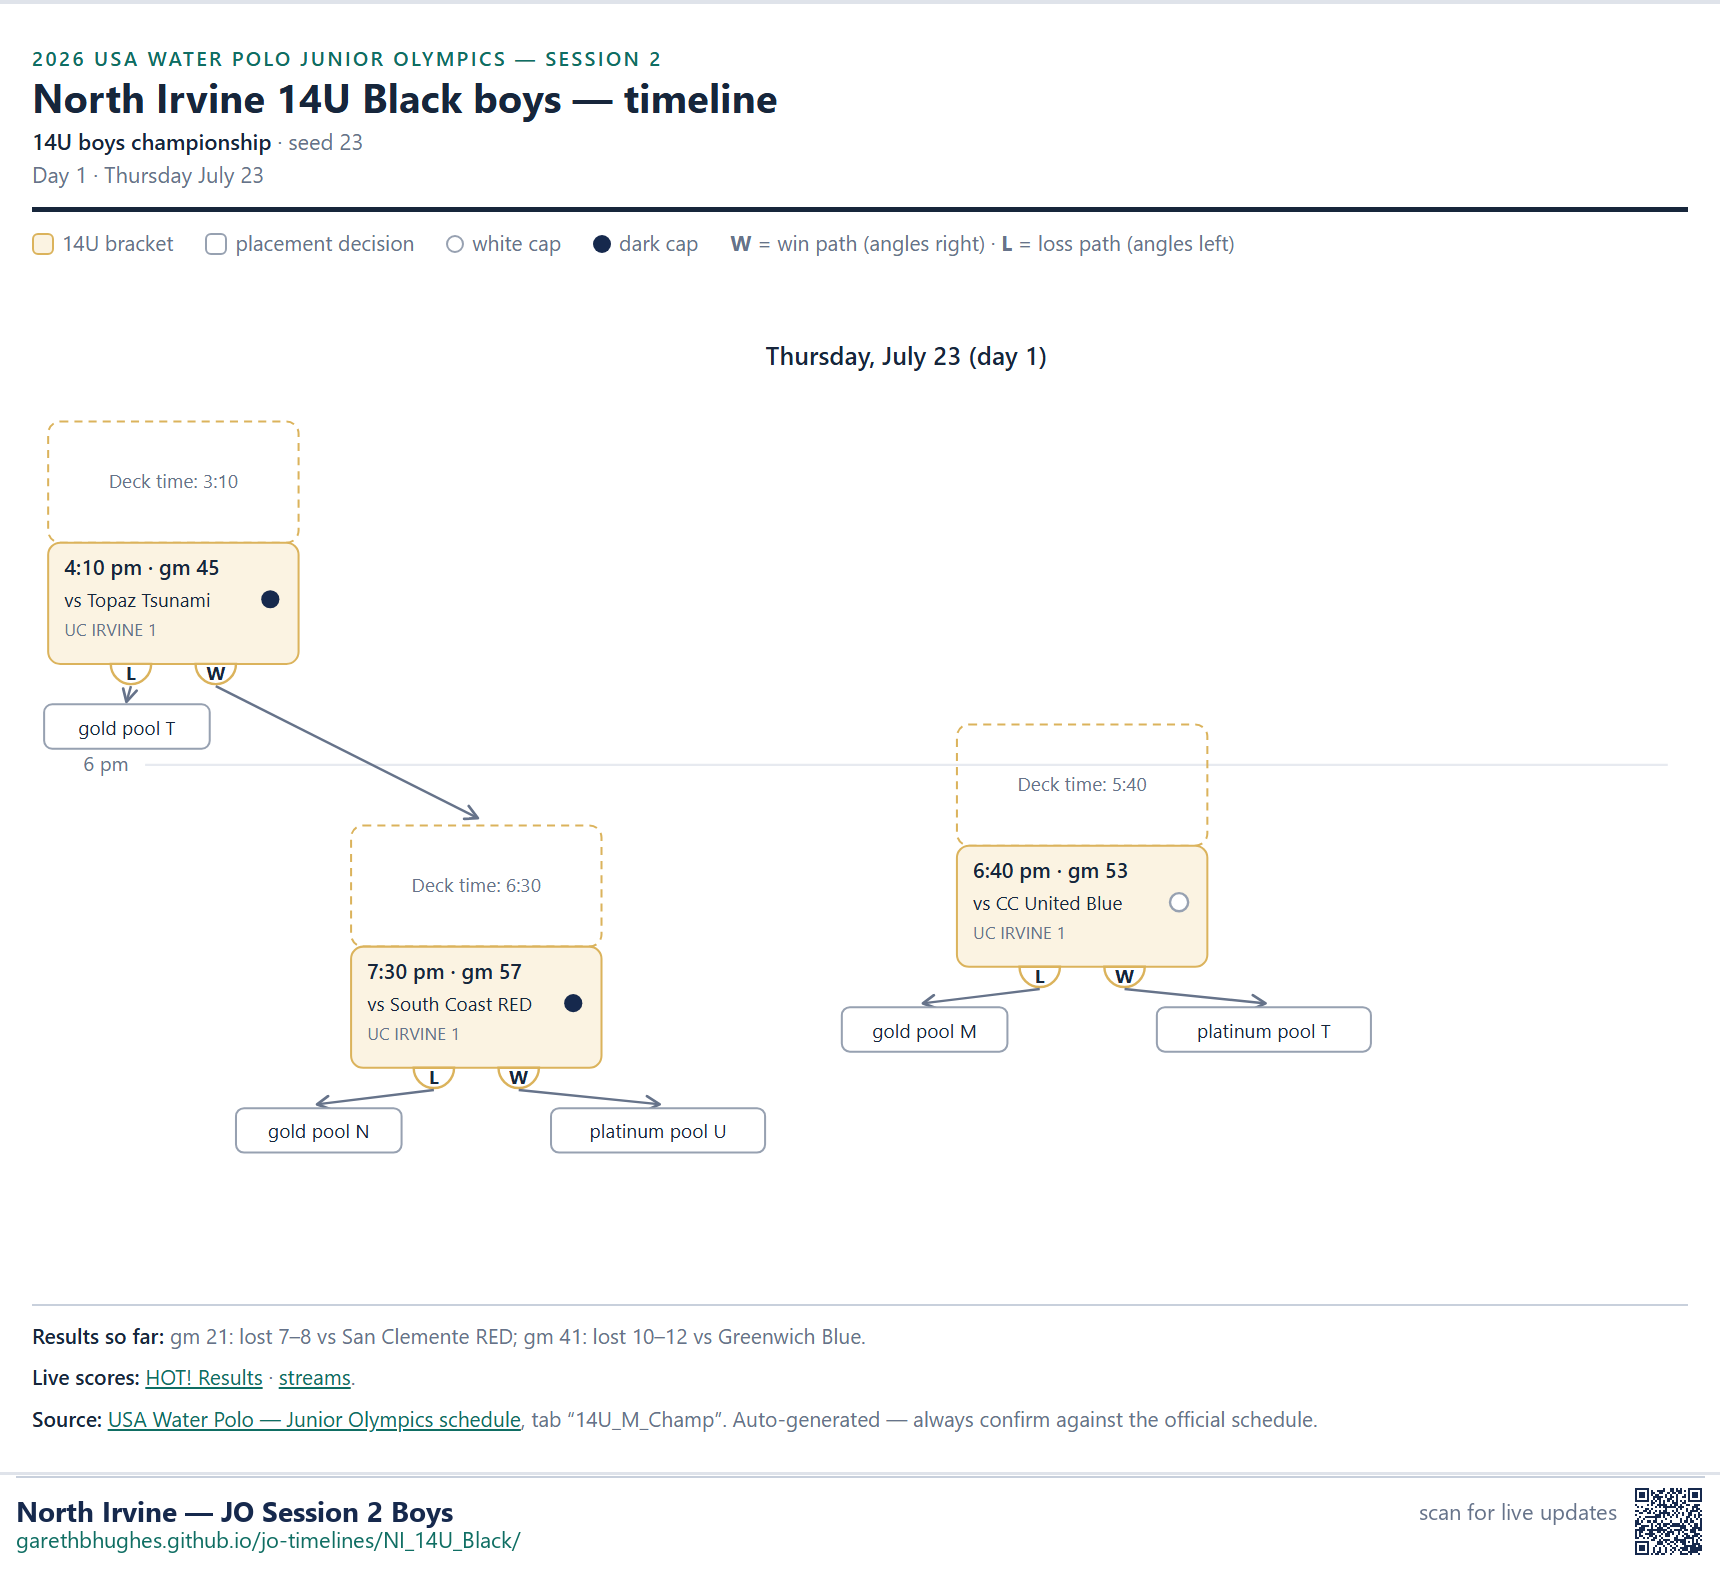
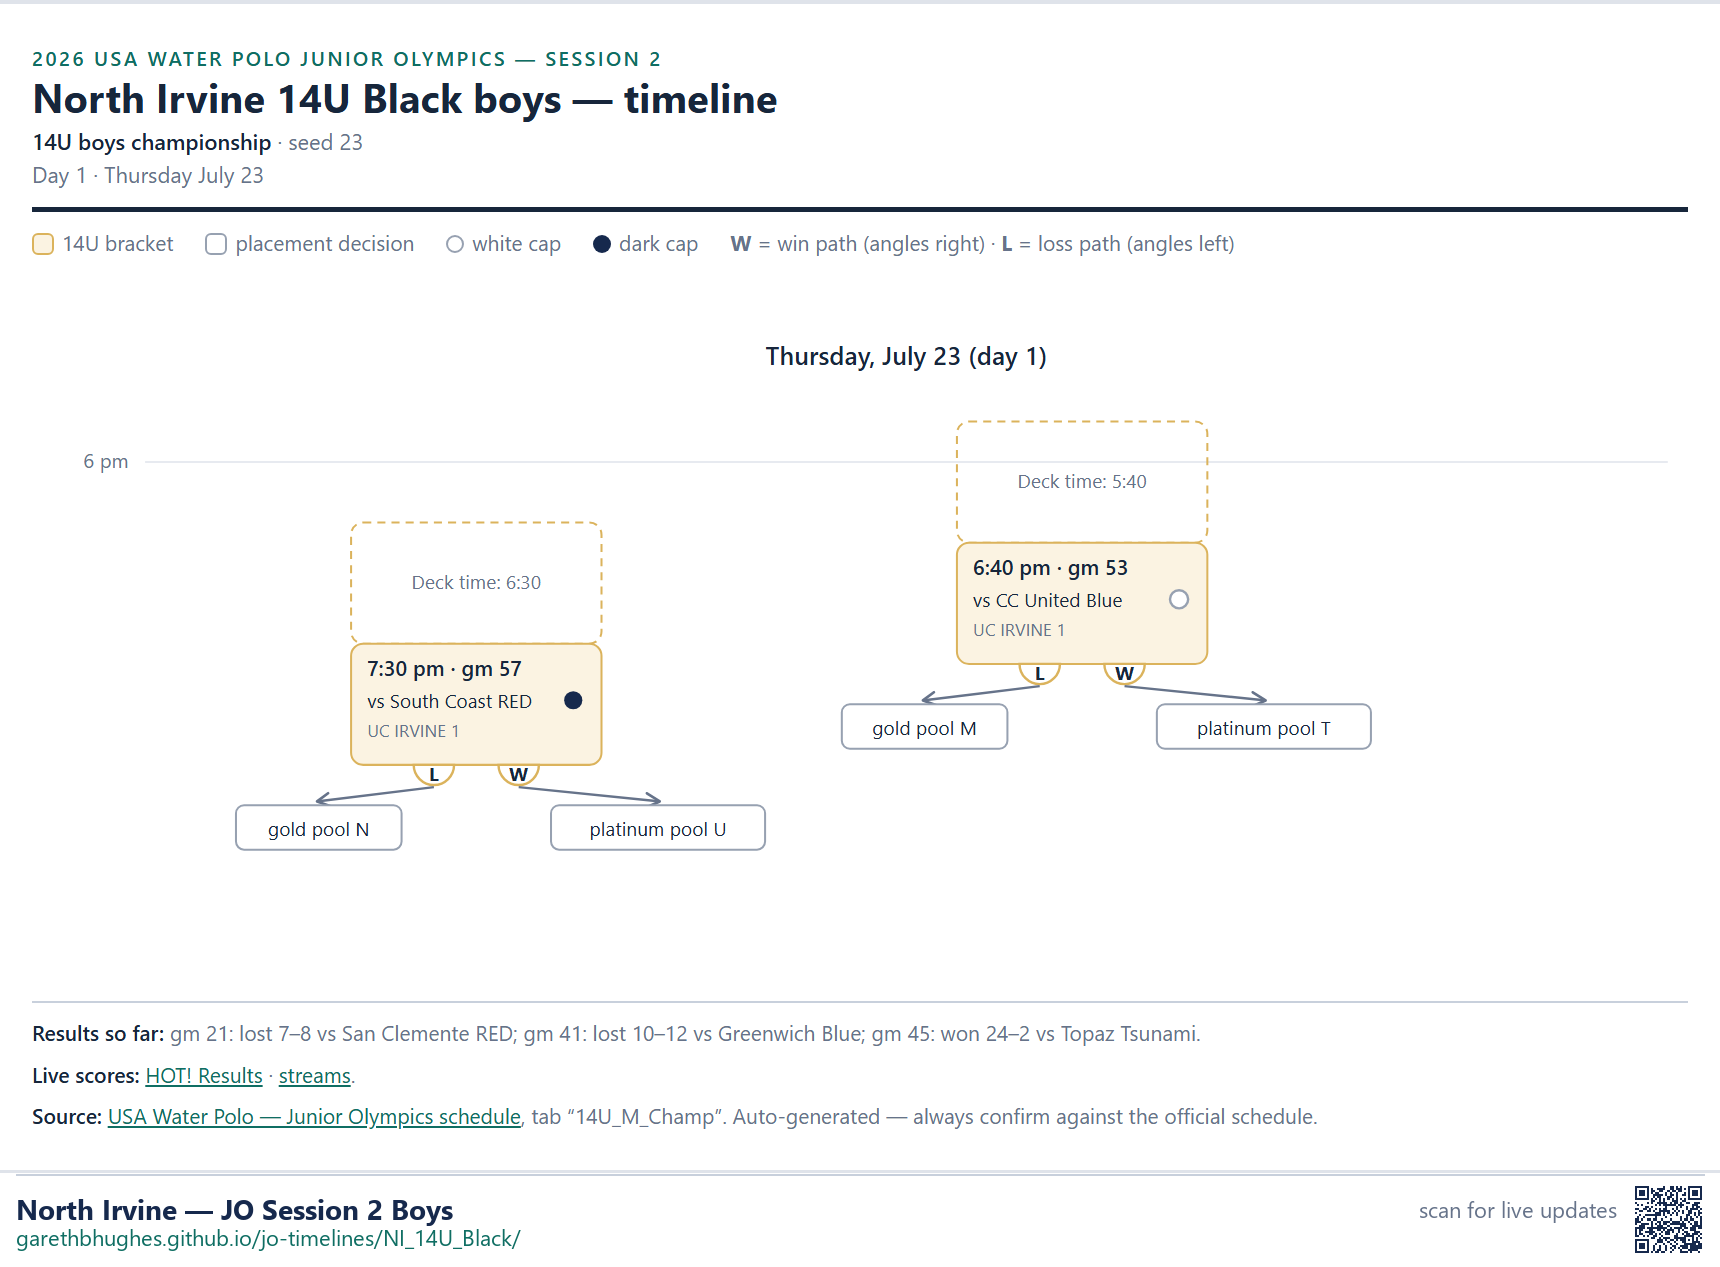
refresh 2026-07-23T18:45

diff --git a/NI_14U_Black/index.html b/NI_14U_Black/index.html
@@ -40,11 +40,11 @@ h2 { font-size:14px; text-transform:uppercase; letter-spacing:.06em; color:var(-
 <header class="site" style="margin-top:8px"><p class="eyebrow">2026 USA Water Polo Junior Olympics — Session 2</p>
 <h1>North Irvine 14U Black boys</h1>
 <p class="stamp"><b>14U boys championship</b> · seed 23<br>
-Last verified against the master schedule at Thursday July 23, 6:30 PM</p></header>
+Last verified against the master schedule at Thursday July 23, 6:45 PM</p></header>
 
 <img class="tl" src="portrait.png" alt="Upcoming games timeline for North Irvine 14U Black boys">
 <h2>Wide view</h2>
 <div class="scroll"><img src="landscape.png" alt="Landscape timeline"></div>
-<h2>Change log</h2><ul class="log"><li><time>5:25 PM</time>Game 21 result in: lost 7–8 (vs San Clemente RED).</li><li><time>5:25 PM</time>Game 41 result in: lost 10–12 (vs Greenwich Blue).</li><li><time>5:25 PM</time>Game 45 set: vs Topaz Tsunami, 4:10 pm at UC IRVINE 1.</li><li><time>5:25 PM</time>Game 53 set: vs CC United Blue, 6:40 pm at UC IRVINE 1.</li><li><time>5:25 PM</time>Game 57 set: vs South Coast RED, 7:30 pm at UC IRVINE 1.</li></ul>
-<div class="fineprint"><p><b>Results so far:</b> gm 21: lost 7–8 vs San Clemente RED; gm 41: lost 10–12 vs Greenwich Blue.</p><p><b>Live scores:</b> <a href="https://kahunaevents.org">HOT! Results</a> · <a href="https://gols.co/2026-usawp-junior-olympics-session-2/">streams</a>.</p><p><b>Source:</b> <a href="https://usawaterpolo.org/sports/2018/12/19/junior-olympics.aspx#schedule">USA Water Polo — Junior Olympics schedule</a>, tab “14U_M_Champ”. Auto-generated — always confirm against the official schedule.</p></div>
+<h2>Change log</h2><ul class="log"><li><time>6:45 PM</time>Game 45 result in: won 24–2 (vs Topaz Tsunami).</li><li><time>6:45 PM</time>Game 57 set: vs South Coast RED, 7:30 pm at UC IRVINE 1.</li><li><time>5:25 PM</time>Game 21 result in: lost 7–8 (vs San Clemente RED).</li><li><time>5:25 PM</time>Game 41 result in: lost 10–12 (vs Greenwich Blue).</li><li><time>5:25 PM</time>Game 45 set: vs Topaz Tsunami, 4:10 pm at UC IRVINE 1.</li><li><time>5:25 PM</time>Game 53 set: vs CC United Blue, 6:40 pm at UC IRVINE 1.</li><li><time>5:25 PM</time>Game 57 set: vs South Coast RED, 7:30 pm at UC IRVINE 1.</li></ul>
+<div class="fineprint"><p><b>Results so far:</b> gm 21: lost 7–8 vs San Clemente RED; gm 41: lost 10–12 vs Greenwich Blue; gm 45: won 24–2 vs Topaz Tsunami.</p><p><b>Live scores:</b> <a href="https://kahunaevents.org">HOT! Results</a> · <a href="https://gols.co/2026-usawp-junior-olympics-session-2/">streams</a>.</p><p><b>Source:</b> <a href="https://usawaterpolo.org/sports/2018/12/19/junior-olympics.aspx#schedule">USA Water Polo — Junior Olympics schedule</a>, tab “14U_M_Champ”. Auto-generated — always confirm against the official schedule.</p></div>
 </div></body></html>

diff --git a/index.html b/index.html
@@ -38,7 +38,7 @@ h2 { font-size:14px; text-transform:uppercase; letter-spacing:.06em; color:var(-
 </style></head><body><div class="wrap">
 <header class="site"><p class="eyebrow">2026 USA Water Polo Junior Olympics — Session 2</p>
 <h1>North Irvine — JO Session 2 Boys</h1>
-<p class="stamp">Last refreshed Thursday July 23, 6:30 PM · auto-updates from the master schedule</p></header>
+<p class="stamp">Last refreshed Thursday July 23, 6:45 PM · auto-updates from the master schedule</p></header>
 <p>Tap your team for the up-to-date timeline (win/loss paths, times, venues, deck times):</p>
 <ul class="teams"><a href="NI_12U_Black/"><span>North Irvine 12U Black boys</span><span class="div">12U boys championship →</span></a><a href="NI_14U_Black/"><span>North Irvine 14U Black boys</span><span class="div">14U boys championship →</span></a><a href="NI_18U_Black/"><span>North Irvine 18U Black boys</span><span class="div">18U boys championship →</span></a><a href="NI_18U_Red/"><span>North Irvine 18U Red boys</span><span class="div">18U boys championship →</span></a><a href="NI_12U_Red/"><span>North Irvine 12U Red boys</span><span class="div">12U boys classic →</span></a><a href="NI_14U_Red/"><span>North Irvine 14U Red boys</span><span class="div">14U boys invite →</span></a></ul>
 <p class="links"><b>Live scores:</b> <a href="https://kahunaevents.org">HOT! Results</a> ·

diff --git a/NI_12U_Red/index.html b/NI_12U_Red/index.html
@@ -40,7 +40,7 @@ h2 { font-size:14px; text-transform:uppercase; letter-spacing:.06em; color:var(-
 <header class="site" style="margin-top:8px"><p class="eyebrow">2026 USA Water Polo Junior Olympics — Session 2</p>
 <h1>North Irvine 12U Red boys</h1>
 <p class="stamp"><b>12U boys classic</b> · seed 30 · group C<br>
-Last verified against the master schedule at Thursday July 23, 6:30 PM</p></header>
+Last verified against the master schedule at Thursday July 23, 6:45 PM</p></header>
 
 <img class="tl" src="portrait.png" alt="Upcoming games timeline for North Irvine 12U Red boys">
 <h2>Wide view</h2>

diff --git a/NI_14U_Red/index.html b/NI_14U_Red/index.html
@@ -40,7 +40,7 @@ h2 { font-size:14px; text-transform:uppercase; letter-spacing:.06em; color:var(-
 <header class="site" style="margin-top:8px"><p class="eyebrow">2026 USA Water Polo Junior Olympics — Session 2</p>
 <h1>North Irvine 14U Red boys</h1>
 <p class="stamp"><b>14U boys invite</b> · seed 15 · group J<br>
-Last verified against the master schedule at Thursday July 23, 6:30 PM</p></header>
+Last verified against the master schedule at Thursday July 23, 6:45 PM</p></header>
 
 <img class="tl" src="portrait.png" alt="Upcoming games timeline for North Irvine 14U Red boys">
 <h2>Wide view</h2>

diff --git a/NI_18U_Black/index.html b/NI_18U_Black/index.html
@@ -40,7 +40,7 @@ h2 { font-size:14px; text-transform:uppercase; letter-spacing:.06em; color:var(-
 <header class="site" style="margin-top:8px"><p class="eyebrow">2026 USA Water Polo Junior Olympics — Session 2</p>
 <h1>North Irvine 18U Black boys</h1>
 <p class="stamp"><b>18U boys championship</b> · seed 27<br>
-Last verified against the master schedule at Thursday July 23, 6:30 PM</p></header>
+Last verified against the master schedule at Thursday July 23, 6:45 PM</p></header>
 
 <img class="tl" src="portrait.png" alt="Upcoming games timeline for North Irvine 18U Black boys">
 <h2>Wide view</h2>

diff --git a/NI_12U_Black/index.html b/NI_12U_Black/index.html
@@ -40,7 +40,7 @@ h2 { font-size:14px; text-transform:uppercase; letter-spacing:.06em; color:var(-
 <header class="site" style="margin-top:8px"><p class="eyebrow">2026 USA Water Polo Junior Olympics — Session 2</p>
 <h1>North Irvine 12U Black boys</h1>
 <p class="stamp"><b>12U boys championship</b> · seed 5<br>
-Last verified against the master schedule at Thursday July 23, 6:30 PM</p></header>
+Last verified against the master schedule at Thursday July 23, 6:45 PM</p></header>
 
 <img class="tl" src="portrait.png" alt="Upcoming games timeline for North Irvine 12U Black boys">
 <h2>Wide view</h2>

diff --git a/NI_18U_Red/index.html b/NI_18U_Red/index.html
@@ -40,7 +40,7 @@ h2 { font-size:14px; text-transform:uppercase; letter-spacing:.06em; color:var(-
 <header class="site" style="margin-top:8px"><p class="eyebrow">2026 USA Water Polo Junior Olympics — Session 2</p>
 <h1>North Irvine 18U Red boys</h1>
 <p class="stamp"><b>18U boys championship</b> · seed 35<br>
-Last verified against the master schedule at Thursday July 23, 6:30 PM</p></header>
+Last verified against the master schedule at Thursday July 23, 6:45 PM</p></header>
 
 <img class="tl" src="portrait.png" alt="Upcoming games timeline for North Irvine 18U Red boys">
 <h2>Wide view</h2>
